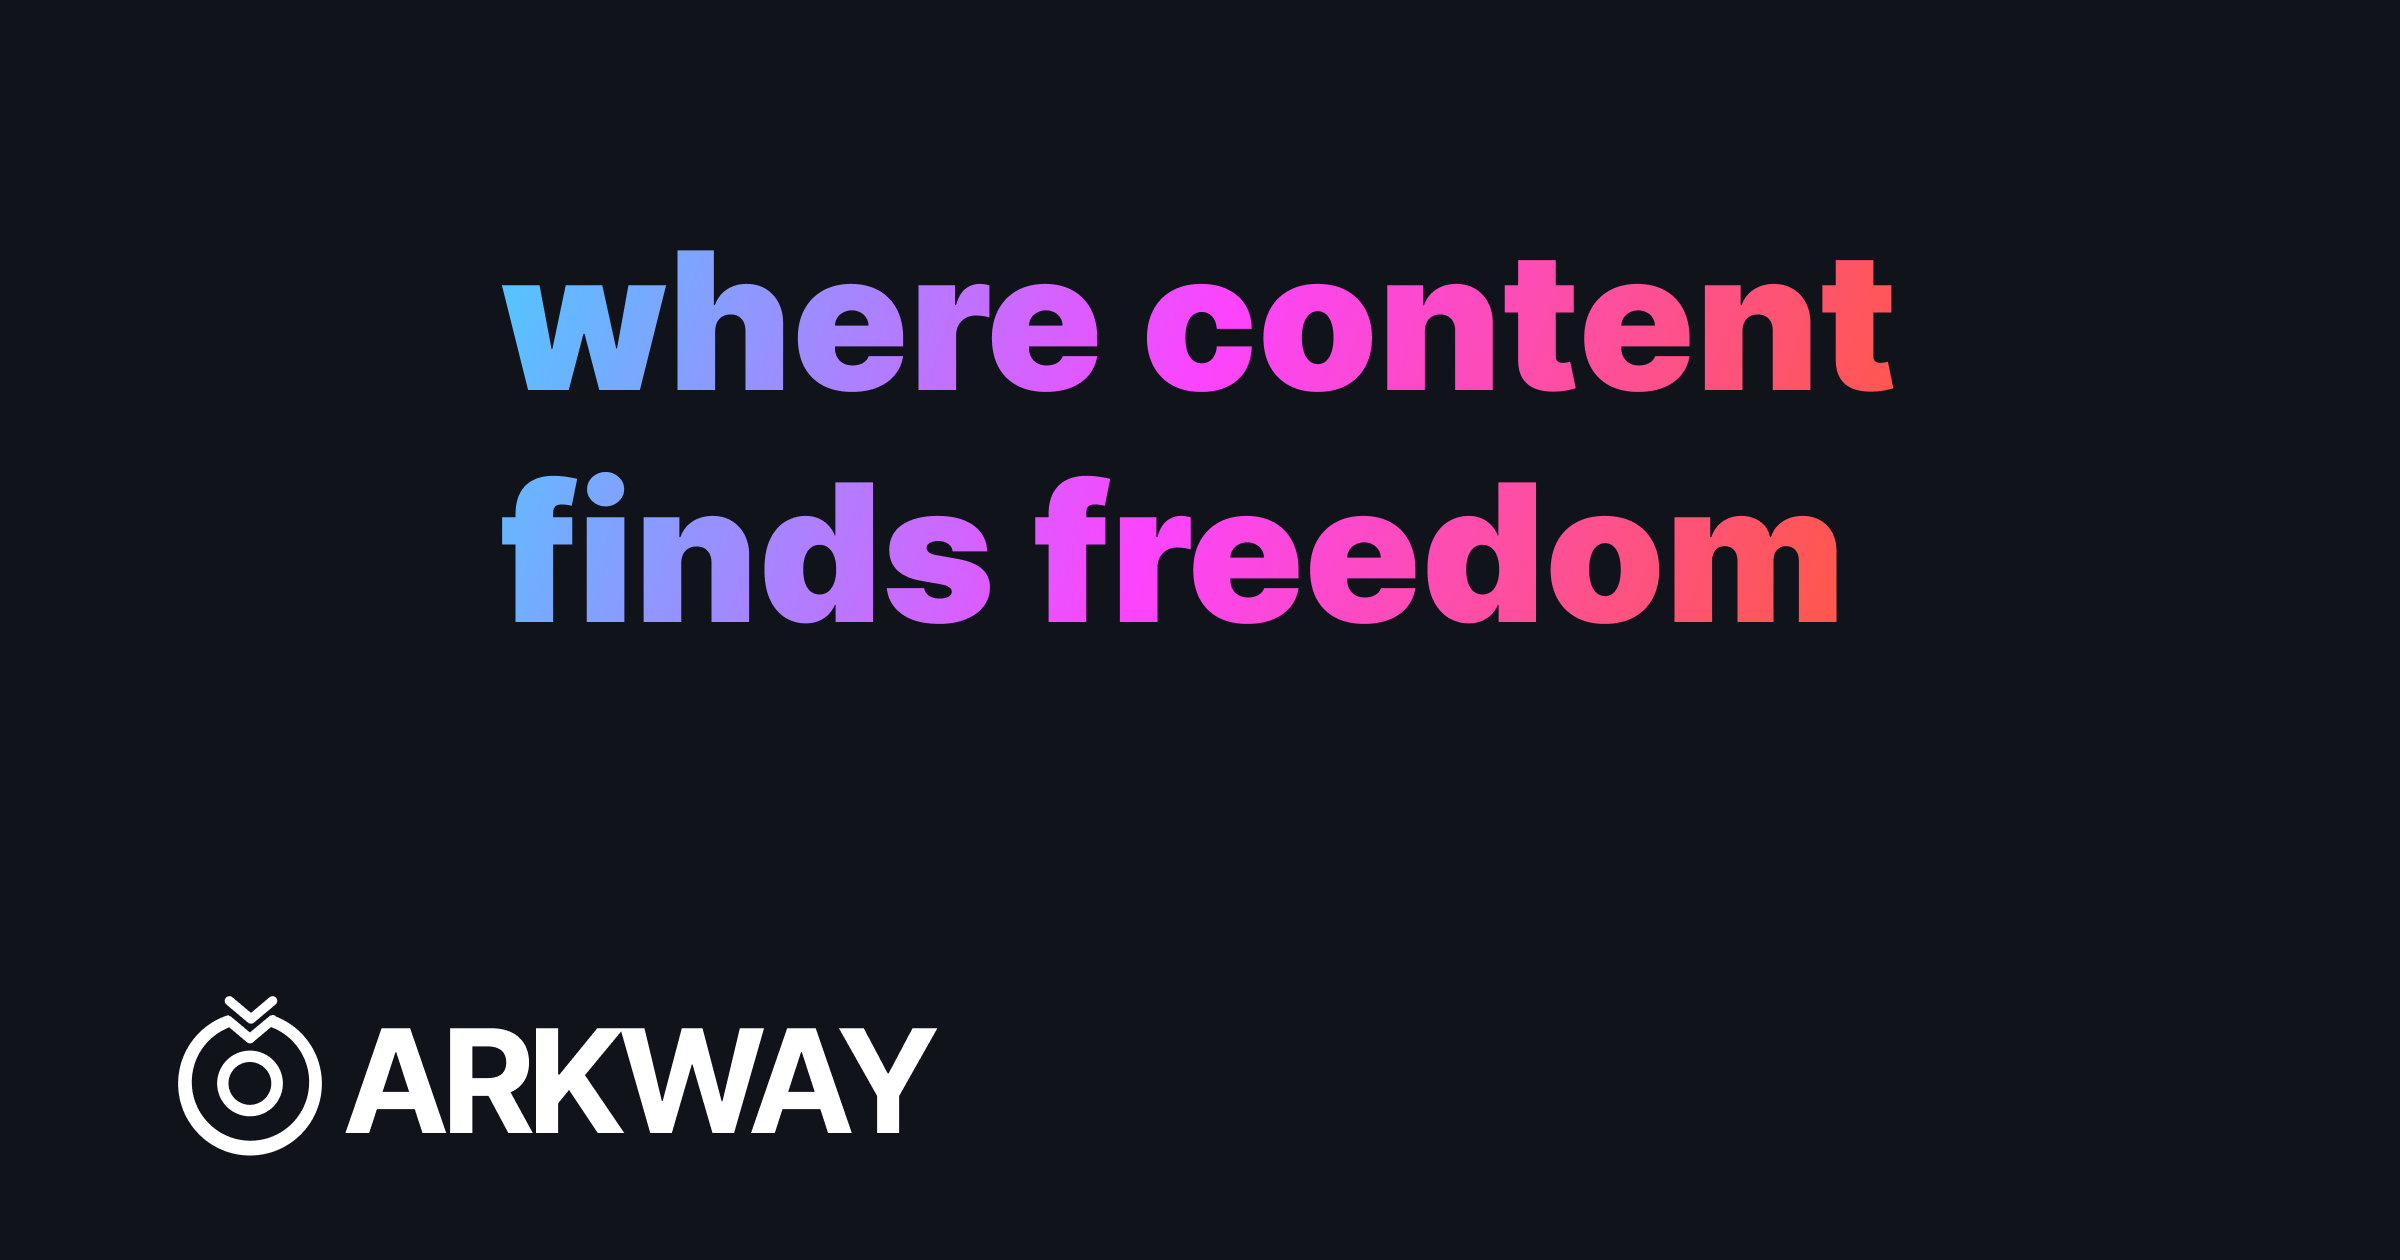
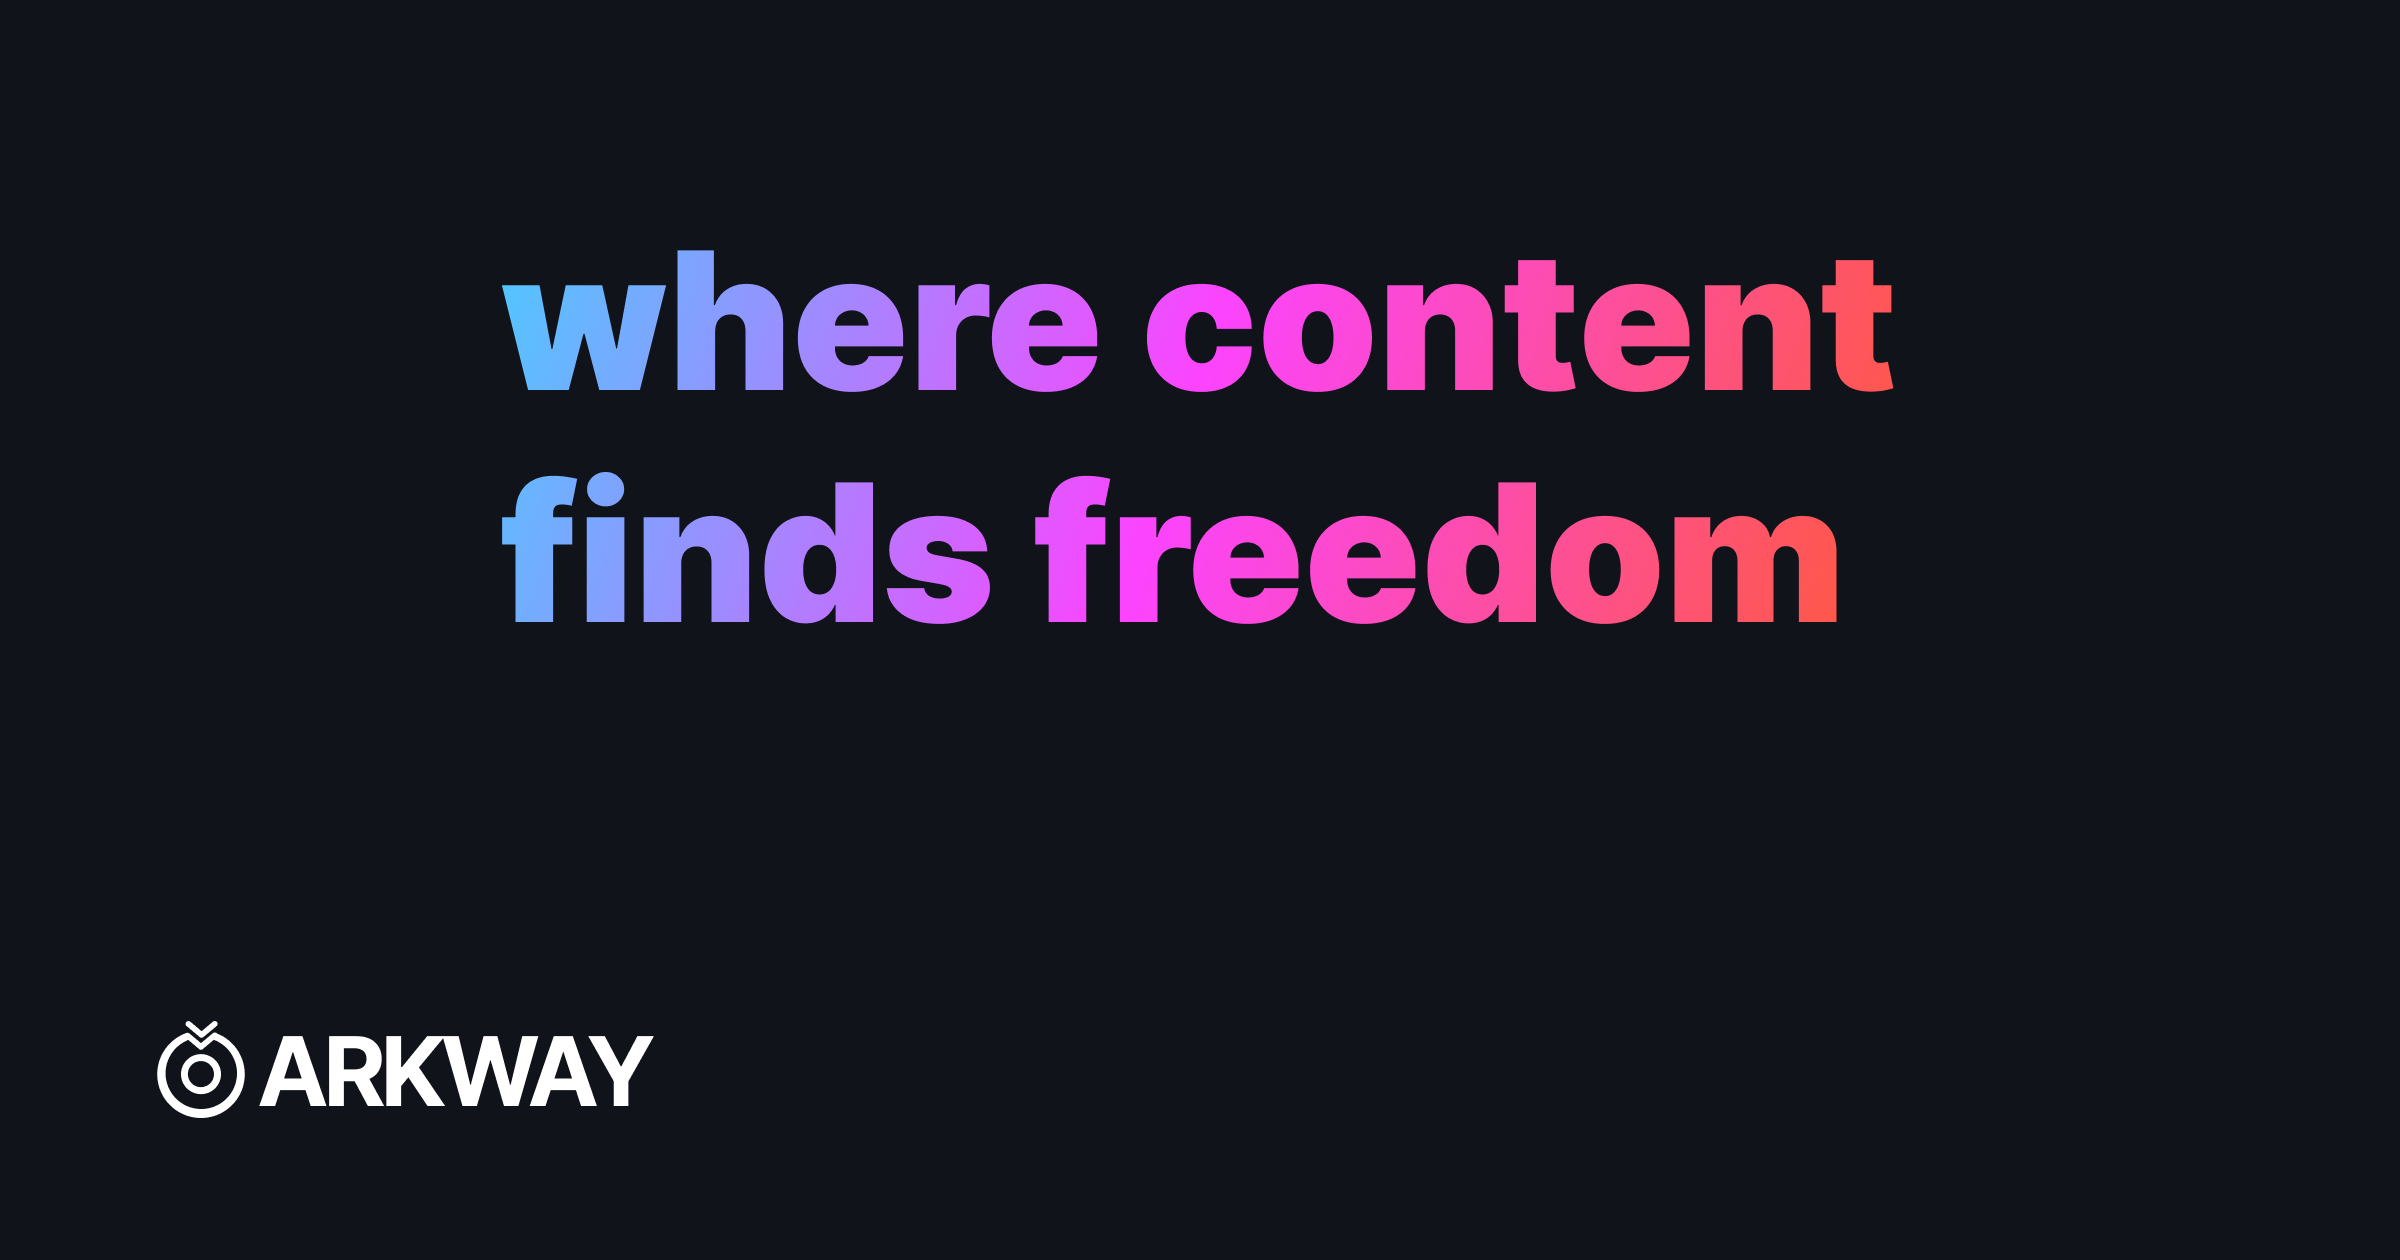
update og

Changed region(s): [[0.0625, 0.7738, 0.4062, 0.9286]]

diff --git a/components/seo/index.tsx b/components/seo/index.tsx
@@ -12,7 +12,7 @@ const SEO = () => (
 					'Redefining File Storage. Store, Encrypt, and Access Your Documents Anytime, Anywhere.',
 				images: [
 					{
-						url: 'https://ipfs.io/ipfs/QmPiSGLoWtgyYE6HrMa6K5mUnAoN8NQDrk4YkTmX5pdDnR',
+						url: 'https://ipfs.io/ipfs/QmWmkAk9U78S2Q5Y2BpuyEsH6jy8rq3L5xN56KJP2UjvzK',
 						width: 1200,
 						height: 630,
 						alt: 'Arkway Open Graph Image',
